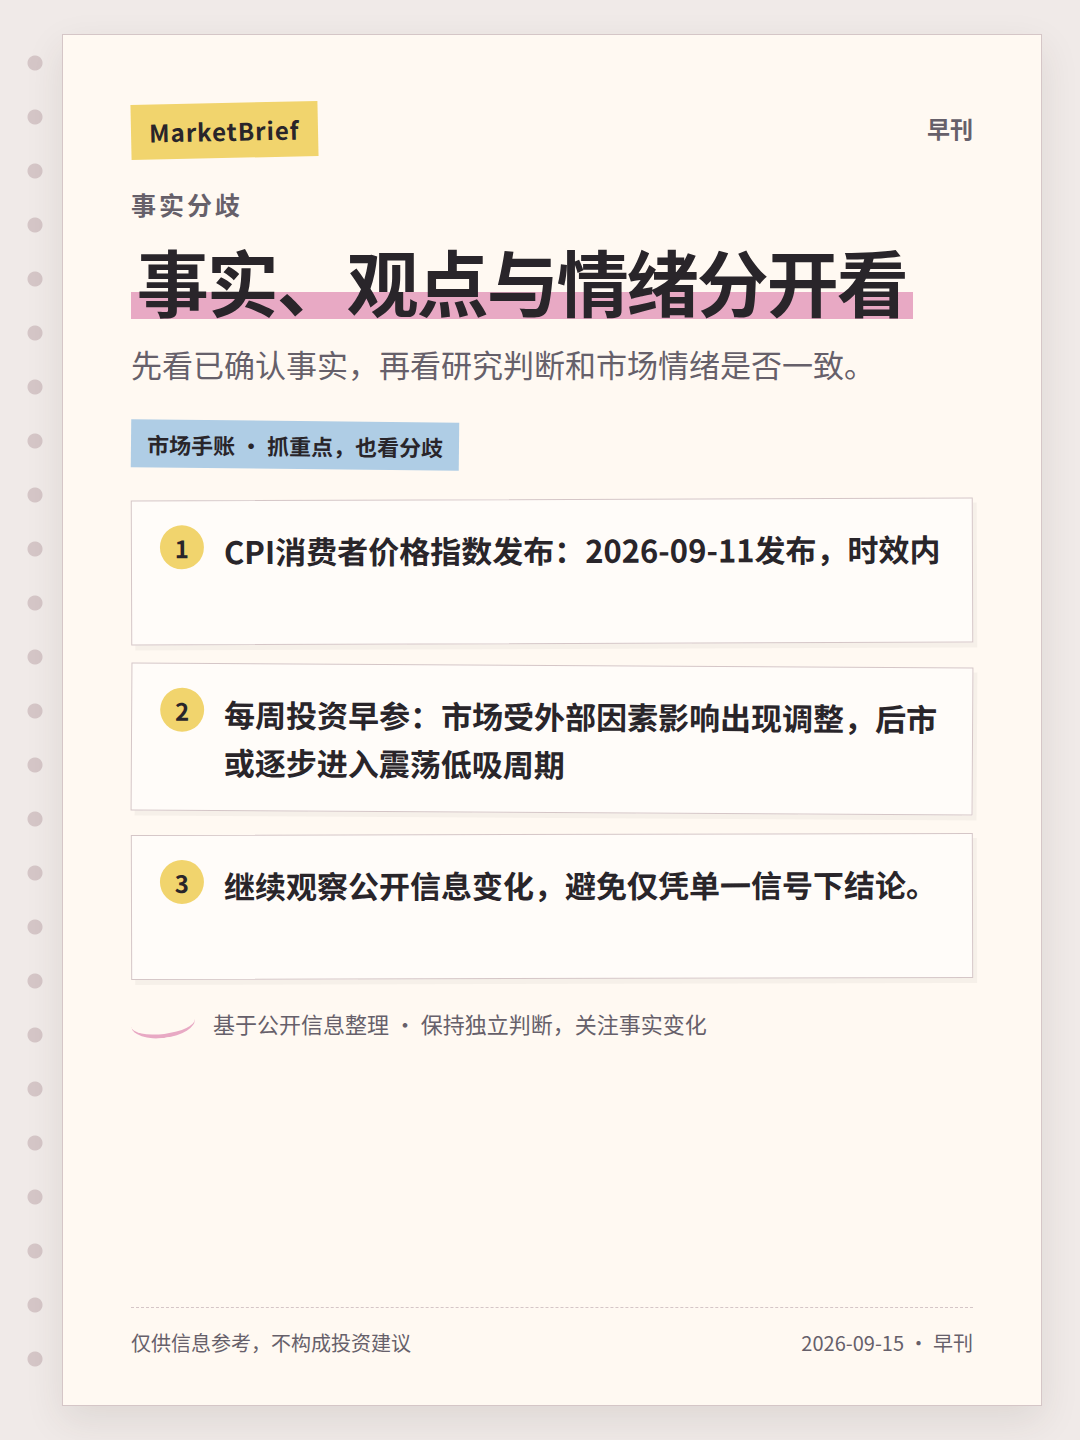
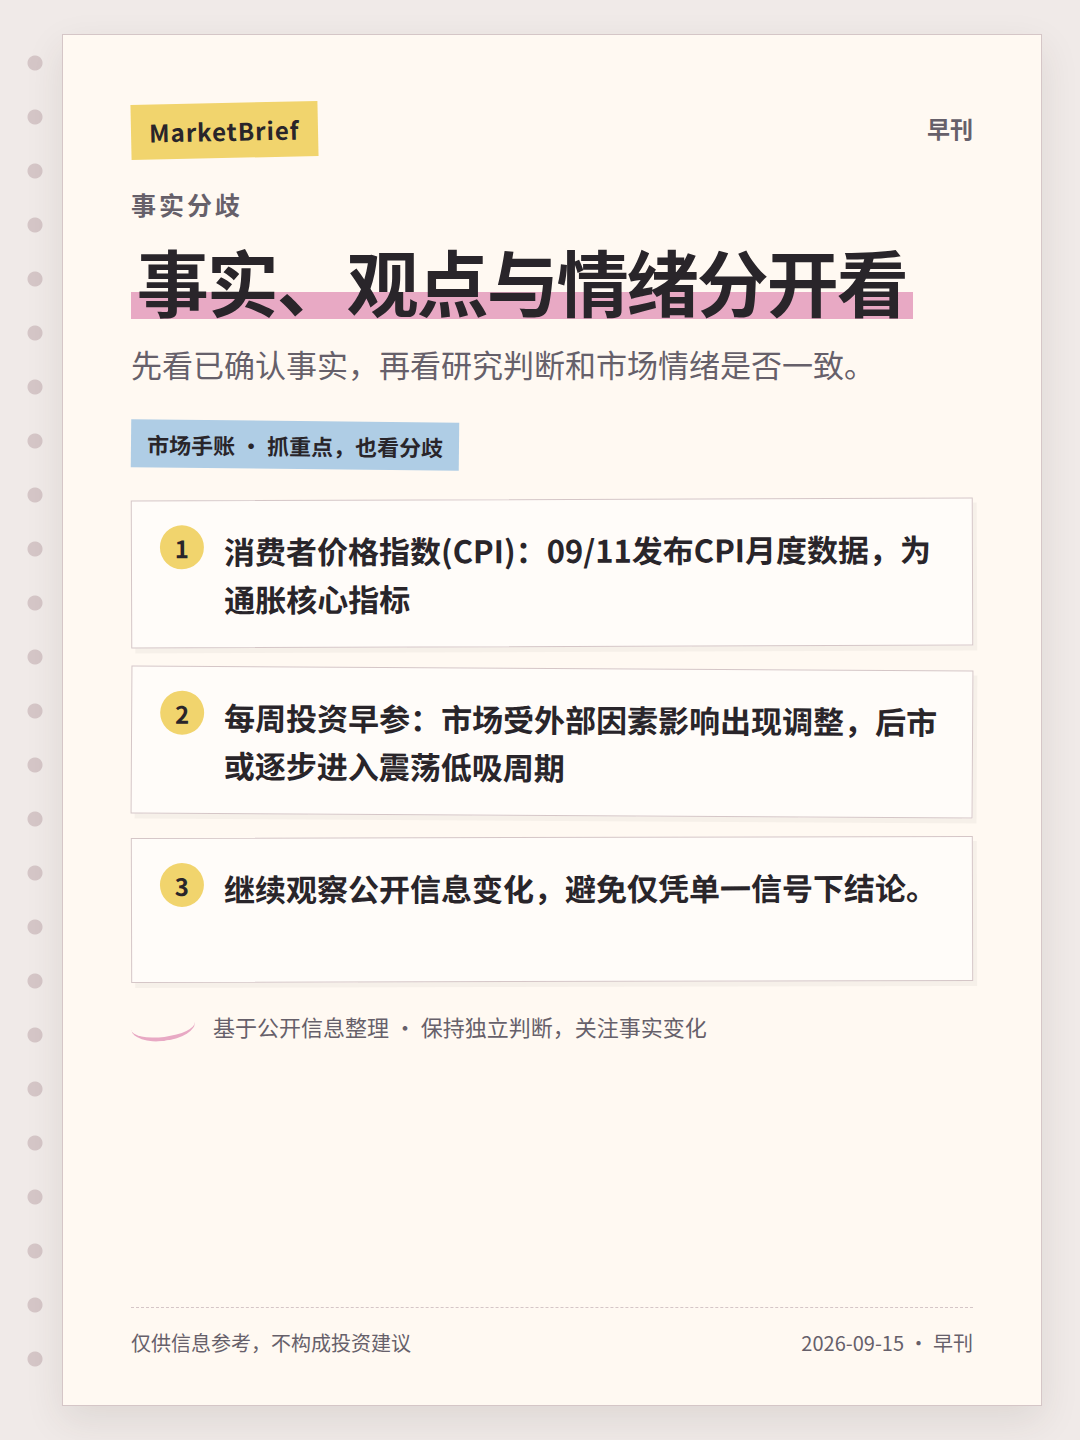
MarketBrief: publish official-source notebook edition

diff --git a/output/marketbrief/2026-09-15/am/2026-09-15-am-06.html b/output/marketbrief/2026-09-15/am/2026-09-15-am-06.html
@@ -27,7 +27,7 @@ footer{position:absolute;z-index:1;left:68px;right:68px;bottom:48px;border-top:1
 <h1><span>后续变量仍需确认</span></h1>
 <div class="sub">只保留来源自身限制和当前证据中的风险项，不额外推演。</div>
 <div class="ribbon">市场手账 · 抓重点，也看分歧</div>
-<div class="notes"><section class="note"><b>1</b><p>该页面为导航/索引页，仅列出新闻标题与发布日期，不包含任何具体数据或分析内容</p></section><section class="note"><b>2</b><p>无法从本页面获取CPI、PPI等指标的实际数值，需访问各发布详情页</p></section><section class="note"><b>3</b><p>部分社区信息存在时效性不足，过期内容已从当前证据中剔除。</p></section></div>
+<div class="notes"><section class="note"><b>1</b><p>页面为导航索引页，仅含发布标题与日期，无具体数据数值，无法提取通胀率、工资涨幅等关键指标</p></section><section class="note"><b>2</b><p>部分社区信息存在时效性不足，过期内容已从当前证据中剔除。</p></section><section class="note"><b>3</b><p>页面未包含就业报告(JOLTS/非农)等其他关键BLS指标，可能已发布但未被截取</p></section></div>
 <div class="margin"><span class="sketch"></span><span>基于公开信息整理 · 保持独立判断，关注事实变化</span></div>
 <footer><span>仅供信息参考，不构成投资建议</span><span>2026-09-15 · 早刊</span></footer>
 </main></body></html>

diff --git a/output/marketbrief/2026-09-15/am/2026-09-15-am-05.html b/output/marketbrief/2026-09-15/am/2026-09-15-am-05.html
@@ -27,7 +27,7 @@ footer{position:absolute;z-index:1;left:68px;right:68px;bottom:48px;border-top:1
 <h1><span>事实、观点与情绪分开看</span></h1>
 <div class="sub">先看已确认事实，再看研究判断和市场情绪是否一致。</div>
 <div class="ribbon">市场手账 · 抓重点，也看分歧</div>
-<div class="notes"><section class="note"><b>1</b><p>CPI消费者价格指数发布：2026-09-11发布，时效内</p></section><section class="note"><b>2</b><p>每周投资早参：市场受外部因素影响出现调整，后市或逐步进入震荡低吸周期</p></section><section class="note"><b>3</b><p>继续观察公开信息变化，避免仅凭单一信号下结论。</p></section></div>
+<div class="notes"><section class="note"><b>1</b><p>消费者价格指数(CPI)：09/11发布CPI月度数据，为通胀核心指标</p></section><section class="note"><b>2</b><p>每周投资早参：市场受外部因素影响出现调整，后市或逐步进入震荡低吸周期</p></section><section class="note"><b>3</b><p>继续观察公开信息变化，避免仅凭单一信号下结论。</p></section></div>
 <div class="margin"><span class="sketch"></span><span>基于公开信息整理 · 保持独立判断，关注事实变化</span></div>
 <footer><span>仅供信息参考，不构成投资建议</span><span>2026-09-15 · 早刊</span></footer>
 </main></body></html>

diff --git a/output/marketbrief/2026-09-15/am/2026-09-15-am-04.html b/output/marketbrief/2026-09-15/am/2026-09-15-am-04.html
@@ -27,7 +27,7 @@ footer{position:absolute;z-index:1;left:68px;right:68px;bottom:48px;border-top:1
 <h1><span>主线与事件交叉验证</span></h1>
 <div class="sub">优先采用官方与研究信息，社区热度只作为辅助信号。</div>
 <div class="ribbon">市场手账 · 抓重点，也看分歧</div>
-<div class="notes"><section class="note"><b>1</b><p>BLS实践与程序审查结果简报：最新公告，无日期标注</p></section><section class="note"><b>2</b><p>每周投资早参：市场受外部因素影响出现调整，后市或逐步进入震荡低吸周期</p></section><section class="note"><b>3</b><p>美股周观点：9月加息？未必是最大的风险</p></section></div>
+<div class="notes"><section class="note"><b>1</b><p>雇主员工成本(ECCEC)：09/09发布雇主员工成本指数，涵盖工资与福利支出趋势</p></section><section class="note"><b>2</b><p>每周投资早参：市场受外部因素影响出现调整，后市或逐步进入震荡低吸周期</p></section><section class="note"><b>3</b><p>美股周观点：9月加息？未必是最大的风险</p></section></div>
 <div class="margin"><span class="sketch"></span><span>基于公开信息整理 · 保持独立判断，关注事实变化</span></div>
 <footer><span>仅供信息参考，不构成投资建议</span><span>2026-09-15 · 早刊</span></footer>
 </main></body></html>

diff --git a/output/marketbrief/2026-09-15/am/2026-09-15-am-02.html b/output/marketbrief/2026-09-15/am/2026-09-15-am-02.html
@@ -27,7 +27,7 @@ footer{position:absolute;z-index:1;left:68px;right:68px;bottom:48px;border-top:1
 <h1><span>隔夜外部变量</span></h1>
 <div class="sub">只保留当前时效窗口内、已有公开信息支持的海外市场与宏观线索。</div>
 <div class="ribbon">市场手账 · 抓重点，也看分歧</div>
-<div class="notes"><section class="note"><b>1</b><p>CPI消费者价格指数发布：2026-09-11发布，时效内</p></section><section class="note"><b>2</b><p>PPI生产者价格指数发布：2026-09-10发布，时效内</p></section><section class="note"><b>3</b><p>雇主员工补偿成本发布：2026-09-09发布，时效内</p></section></div>
+<div class="notes"><section class="note"><b>1</b><p>消费者价格指数(CPI)：09/11发布CPI月度数据，为通胀核心指标</p></section><section class="note"><b>2</b><p>生产者价格指数(PPI)：09/10发布PPI月度数据，反映上游成本压力</p></section><section class="note"><b>3</b><p>实际收入(Real Earnings)：09/11发布实际收入数据，反映工资增长与通胀调整后的购买力变化</p></section></div>
 <div class="margin"><span class="sketch"></span><span>基于公开信息整理 · 保持独立判断，关注事实变化</span></div>
 <footer><span>仅供信息参考，不构成投资建议</span><span>2026-09-15 · 早刊</span></footer>
 </main></body></html>

diff --git a/output/marketbrief/2026-09-15/am/brief.md b/output/marketbrief/2026-09-15/am/brief.md
@@ -6,9 +6,9 @@
 
 只保留当前时效窗口内、已有公开信息支持的海外市场与宏观线索。
 
-- CPI消费者价格指数发布：2026-09-11发布，时效内
-- PPI生产者价格指数发布：2026-09-10发布，时效内
-- 雇主员工补偿成本发布：2026-09-09发布，时效内
+- 消费者价格指数(CPI)：09/11发布CPI月度数据，为通胀核心指标
+- 生产者价格指数(PPI)：09/10发布PPI月度数据，反映上游成本压力
+- 实际收入(Real Earnings)：09/11发布实际收入数据，反映工资增长与通胀调整后的购买力变化
 
 ## A股结构与资金
 
@@ -19,7 +19,7 @@
 
 优先采用官方与研究信息，社区热度只作为辅助信号。
 
-- BLS实践与程序审查结果简报：最新公告，无日期标注
+- 雇主员工成本(ECCEC)：09/09发布雇主员工成本指数，涵盖工资与福利支出趋势
 - 每周投资早参：市场受外部因素影响出现调整，后市或逐步进入震荡低吸周期
 - 美股周观点：9月加息？未必是最大的风险
 
@@ -27,16 +27,16 @@
 
 先看已确认事实，再看研究判断和市场情绪是否一致。
 
-- CPI消费者价格指数发布：2026-09-11发布，时效内
+- 消费者价格指数(CPI)：09/11发布CPI月度数据，为通胀核心指标
 - 每周投资早参：市场受外部因素影响出现调整，后市或逐步进入震荡低吸周期
 
 ## 后续变量仍需确认
 
 只保留来源自身限制和当前证据中的风险项，不额外推演。
 
-- 该页面为导航/索引页，仅列出新闻标题与发布日期，不包含任何具体数据或分析内容
-- 无法从本页面获取CPI、PPI等指标的实际数值，需访问各发布详情页
+- 页面为导航索引页，仅含发布标题与日期，无具体数据数值，无法提取通胀率、工资涨幅等关键指标
 - 部分社区信息存在时效性不足，过期内容已从当前证据中剔除。
+- 页面未包含就业报告(JOLTS/非农)等其他关键BLS指标，可能已发布但未被截取
 
 ## 信息口径
 
@@ -47,5 +47,5 @@
 本文仅作公开信息整理与讨论，不构成任何投资建议。
 
 刊期：2026-09-15 早刊  
-生成时间：2026-09-15T02:18:23+08:00  
-模型：`SenseNova` · 调用 3 次 · Token 5139
+生成时间：2026-09-15T06:56:34+08:00  
+模型：`SenseNova` · 调用 4 次 · Token 8046
